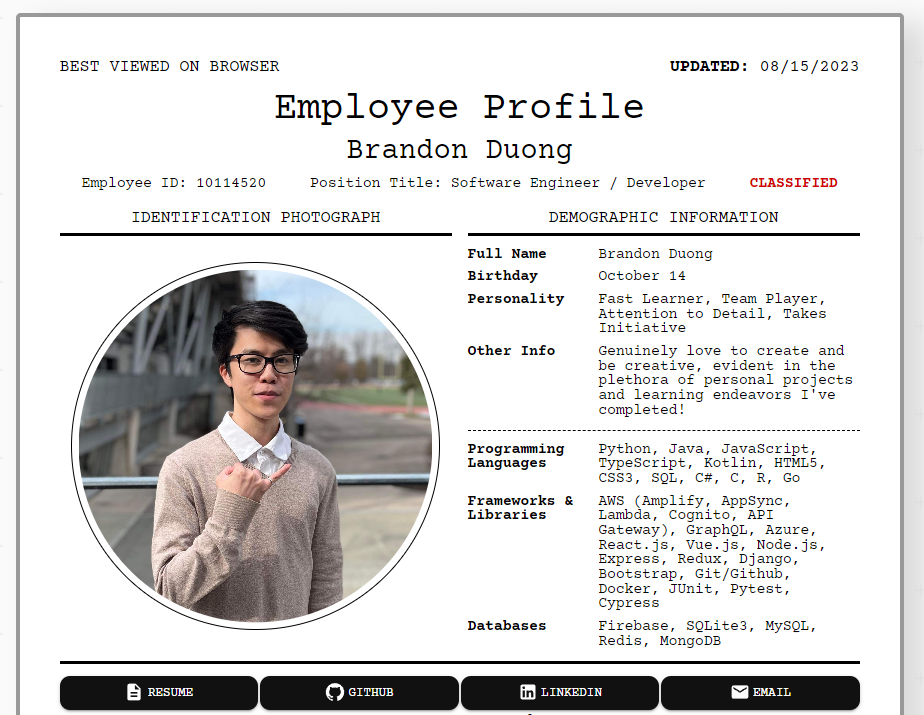
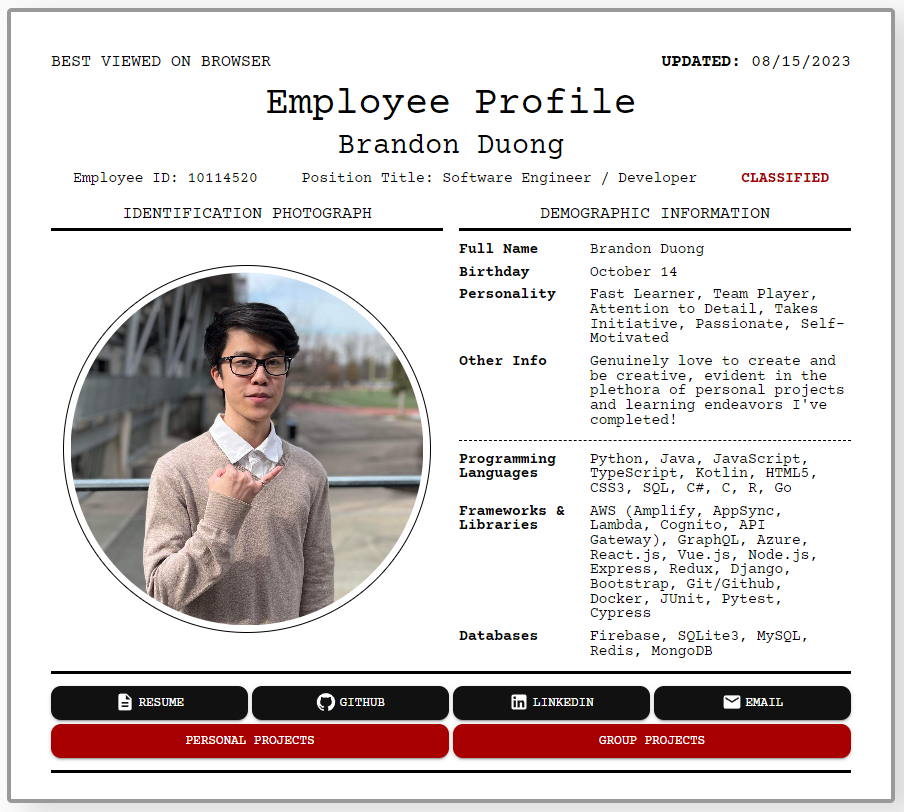
updated recursion

diff --git a/pages/index.js b/pages/index.js
@@ -23,7 +23,7 @@ export default function Home() {
     "Full Name": "Brandon Duong",
     Birthday: "October 14",
     Personality:
-      "Fast Learner, Team Player, Attention to Detail, Takes Initiative, Passionate",
+      "Fast Learner, Team Player, Attention to Detail, Takes Initiative, Passionate, Self-Motivated",
     "Other Info":
       "Genuinely love to create and be creative, evident in the plethora of personal projects and learning endeavors I've completed!",
   };
